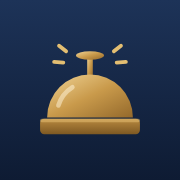
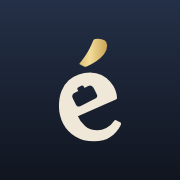
Merk: attaché, met een é uit Young Serif waarvan het oog een gekanteld koffertje is
Titel, zijbalk, manifest en meldingen heten nu attaché. Het woordmerk staat in kleine
letters in Young Serif met een messing accent. Nieuwe favicon (zonder hengsel, voor kleine
maten), Apple-icoon en een Dock-icoon in het macOS-raster, dat ook als favicon.ico wordt
geserveerd. De vectorbestanden staan in ontwerp/.

Claude-Session: https://claude.ai/code/session_01M89mTdszUr3yjNnbdNbyR6

diff --git a/mailagent/static/app.html b/mailagent/static/app.html
@@ -3,14 +3,14 @@
 <head>
 <meta charset="utf-8">
 <meta name="viewport" content="width=device-width, initial-scale=1">
-<title>Concierge</title>
-<meta name="application-name" content="Concierge">
-<meta name="apple-mobile-web-app-title" content="Concierge">
+<title>attaché</title>
+<meta name="application-name" content="attaché">
+<meta name="apple-mobile-web-app-title" content="attaché">
 <meta name="description" content="Je mail, taken en agenda, voorbereid door Claude. Versturen doe je zelf.">
 <link rel="icon" href="/favicon.svg" type="image/svg+xml">
 <link rel="apple-touch-icon" href="/apple-touch-icon.png">
 <link rel="manifest" href="/manifest.webmanifest">
-<link rel="stylesheet" href="https://fonts.googleapis.com/css2?family=Inter:wght@400;500;600;700&display=swap">
+<link rel="stylesheet" href="https://fonts.googleapis.com/css2?family=Inter:wght@400;500;600;700&family=Young+Serif&display=swap">
 <style>
 :root{
   --bg:#f4f4f2;--vlak:#ffffff;--vlak2:#fafaf8;--tekst:#1c1c1e;--zacht:#6e6e73;--lijn:#e5e5e2;
@@ -606,11 +606,13 @@ textarea.groei{resize:none;overflow:hidden;min-height:0;line-height:1.45;font:in
 .overlay dl{display:grid;grid-template-columns:auto 1fr;gap:8px 16px;margin:0}
 .overlay dt{text-align:right}
 .overlay dd{margin:0;color:var(--zacht)}
-/* merk: Concierge, een receptiebel in messing op diepblauw */
-.logo .blok.merk{background:none;width:30px;height:30px;border-radius:8px;overflow:hidden;box-shadow:0 1px 2px rgba(14,27,51,.25)}
+/* merk: attaché. De é uit Young Serif; het oog is een gekanteld koffertje, het accent messing. */
+.logo .blok.merk{background:none;width:30px;height:30px;border-radius:8px;overflow:hidden;box-shadow:0 1px 2px rgba(14,20,30,.3)}
 .logo .blok.merk svg.merkteken{width:30px;height:30px;stroke:none;fill:initial;stroke-width:0}
 @media (prefers-color-scheme:dark){:root:not([data-theme="light"]) .logo .blok.merk{box-shadow:0 0 0 1px rgba(255,255,255,.1)}}
-.woordmerk{font-family:ui-serif,"New York","Iowan Old Style",Georgia,serif;font-weight:600;font-size:19px;letter-spacing:.005em;color:var(--tekst)}
+.woordmerk{font-family:"Young Serif",ui-serif,Georgia,serif;font-weight:400;font-size:21px;letter-spacing:-.005em;color:var(--tekst);line-height:1}
+.woordmerk-e{color:#b5852f}
+@media (prefers-color-scheme:dark){:root:not([data-theme="light"]) .woordmerk-e{color:#ddb769}}
 /* afgehandeld */
 .td-schakel button{white-space:nowrap}
 .rij.afg .afg-chip{flex:none}
@@ -650,23 +652,11 @@ textarea.groei{resize:none;overflow:hidden;min-height:0;line-height:1.45;font:in
 <body>
 <div class="app" id="app">
   <aside class="zij">
-    <div class="logo"><span class="blok merk"><svg class="merkteken" aria-hidden="true" viewBox="0 0 512 512">
-  <defs>
-    <linearGradient id="c-bg" x1="0" y1="0" x2="0" y2="1"><stop offset="0" stop-color="#1d3358"/><stop offset="1" stop-color="#0e1b33"/></linearGradient>
-    <linearGradient id="c-messing" x1="0" y1="0" x2="1" y2="1"><stop offset="0" stop-color="#f0d496"/><stop offset=".5" stop-color="#c99a4b"/><stop offset="1" stop-color="#94692b"/></linearGradient>
-    <linearGradient id="c-voet" x1="0" y1="0" x2="0" y2="1"><stop offset="0" stop-color="#b98a40"/><stop offset="1" stop-color="#7d5822"/></linearGradient>
-  </defs>
-  <rect width="512" height="512" rx="112" fill="url(#c-bg)"/>
-  <g stroke="#e3be72" stroke-width="11" stroke-linecap="round" fill="none">
-    <path d="M168 130l20 16M154 176l26 2M344 130l-20 16M358 176l-26 2"/>
-  </g>
-  <rect x="248" y="160" width="16" height="64" rx="6" fill="url(#c-messing)"/>
-  <ellipse cx="256" cy="158" rx="40" ry="12" fill="url(#c-messing)"/>
-  <path d="M134 334a122 122 0 0 1 244 0z" fill="url(#c-messing)"/>
-  <path d="M166 300A94 94 0 0 1 206 248" stroke="#fff6dc" stroke-opacity=".5" stroke-width="13" stroke-linecap="round" fill="none"/>
-  <rect x="114" y="338" width="284" height="44" rx="12" fill="url(#c-voet)"/>
-  <rect x="114" y="338" width="284" height="10" rx="5" fill="#e3be72" fill-opacity=".55"/>
-</svg></span><span class="navtekst woordmerk">Concierge</span>
+    <div class="logo"><span class="blok merk"><svg class="merkteken" aria-hidden="true" viewBox="0 0 512 512"><defs>
+<linearGradient id="ambg" x1="0" y1="0" x2="0" y2="1"><stop offset="0" stop-color="#243047"/><stop offset="1" stop-color="#10151f"/></linearGradient>
+<linearGradient id="amms" gradientUnits="userSpaceOnUse" x1="180" y1="0" x2="330" y2="0"><stop offset="0" stop-color="#b98a35"/><stop offset=".5" stop-color="#f3dd9a"/><stop offset="1" stop-color="#b48434"/></linearGradient>
+<mask id="amm" maskUnits="userSpaceOnUse" x="0" y="0" width="512" height="512"><rect width="512" height="512" fill="#fff"/>
+<path transform="translate(242.17 268.50) rotate(-26.56) scale(.5)" d="M-72.92 29.18V-10.49Q-72.92 -35.29 -48.12 -35.29H34.54Q59.33 -35.29 59.33 -10.49V29.18Q59.33 47.37 41.15 47.37H-54.73Q-72.92 47.37 -72.92 29.18ZM-26.63 -32.29V-43.77Q-26.63 -54.13 -16.26 -54.13H2.68Q13.05 -54.13 13.05 -43.77V-32.29Z" fill="#000"/></mask></defs><rect width="512" height="512" rx="112" fill="url(#ambg)"/><g transform="translate(256 256) scale(1.0) translate(-256 -256)"><path d="M221.6 330.6 Q227.9 346.2 241.9 358.5 Q255.8 370.8 277.4 370.8 Q289.3 370.8 302.3 364.1 Q315.3 357.4 325.0 343.2 Q326.1 341.4 328.0 341.4 Q329.8 341.4 331.9 342.5 Q333.9 343.6 342.9 348.8 Q344.3 349.9 344.3 351.8 Q344.3 354.4 342.1 358.1 Q331.7 377.4 313.8 389.7 Q296.0 402.0 267.3 402.0 Q236.5 402.0 214.2 388.2 Q191.8 374.5 179.7 351.8 Q167.7 329.1 167.7 302.3 Q167.7 276.6 175.3 258.2 Q182.9 239.8 195.6 228.5 Q208.2 217.1 224.0 211.7 Q239.8 206.3 256.2 206.3 Q274.8 206.3 288.9 213.6 Q303.1 220.8 312.9 232.0 Q322.8 243.2 327.8 255.6 Q332.8 268.1 332.8 278.9 Q332.8 281.9 329.5 283.3 Z" fill="#efe8d8" mask="url(#amm)"/><path d="M225.3 182.2 Q237.2 166.9 244.1 156.5 Q251.0 146.1 255.6 136.6 Q260.3 127.1 265.1 115.2 Q266.6 111.9 270.9 110.9 Q275.2 110.0 278.9 110.0 Q289.7 110.0 297.3 114.6 Q304.9 119.3 304.9 129.0 Q304.9 143.1 295.8 154.5 Q286.7 165.8 273.9 174.2 Q261.0 182.5 249.5 187.7 Q248.0 188.5 246.3 189.2 Q244.7 190.0 242.8 190.0 Q241.3 190.0 239.1 188.9 Z" fill="url(#amms)"/></g></svg></span><span class="navtekst woordmerk" aria-label="attaché">attach<span class="woordmerk-e">é</span></span>
       <button class="ikoon inklap" id="inklappen" title="Zijbalk inklappen ( [ )" aria-label="Zijbalk in- of uitklappen"><span data-ikoon="paneel"></span></button></div>
     <div id="nav" style="display:contents"></div>
     <div class="onder">

diff --git a/mailagent/web.py b/mailagent/web.py
@@ -38,7 +38,8 @@ APP_HTML = Path(__file__).with_name("static") / "app.html"
 # vaste bestanden naast de app: logo, Dock-icoon (Safari > File > Add to Dock) en manifest
 BESTANDEN = {
     "/favicon.svg": ("favicon.svg", "image/svg+xml"),
-    "/favicon.ico": ("icon-192.png", "image/png"),
+    "/favicon.ico": ("dock-icoon.png", "image/png"),          # sommige Safari-versies nemen dit voor het Dock
+    "/dock-icoon.png": ("dock-icoon.png", "image/png"),
     "/apple-touch-icon.png": ("apple-touch-icon.png", "image/png"),
     "/apple-touch-icon-precomposed.png": ("apple-touch-icon.png", "image/png"),
     "/icon-192.png": ("icon-192.png", "image/png"),

diff --git a/mailagent/melding.py b/mailagent/melding.py
@@ -6,7 +6,7 @@ import subprocess
 
 
 def meld(titel: str, tekst: str) -> None:
-    script = 'on run argv\ndisplay notification (item 2 of argv) with title (item 1 of argv) subtitle "Concierge" sound name "Glass"\nend run'
+    script = 'on run argv\ndisplay notification (item 2 of argv) with title (item 1 of argv) subtitle "attaché" sound name "Glass"\nend run'
     try:
         subprocess.run(["osascript", "-e", script, titel[:120], tekst[:240]], check=False, timeout=20,
                        capture_output=True)

diff --git a/README.md b/README.md
@@ -1,8 +1,8 @@
-# Concierge
+# attaché
 
-<img src="mailagent/static/apple-touch-icon.png" width="72" alt="Concierge: een receptiebel in messing op diepblauw">
+<img src="mailagent/static/dock-icoon.png" width="96" alt="attaché: een é met een koffertje als oog en een messing accent">
 
-Concierge bereidt je mail, taken en agenda voor; versturen doe je zelf. De naam en de receptiebel komen uit de hotellerie: een conciërge regelt veel voor je, maar vraagt eerst wat je wilt. In de code heet het pakket nog `mailagent`, zodat paden, achtergrondtaken en commando's blijven werken.
+attaché bereidt je mail, taken en agenda voor; versturen doe je zelf. Een attaché is de assistent van een diplomaat, een attachékoffer draagt je papieren, en bijlagen in je mail heten in het Engels *attachments*. Het logo is de é uit Young Serif (SIL Open Font License, via Google Fonts): het oog van de letter is een gekanteld koffertje met een klein hengsel, het accent is messing. In de code heet het pakket nog `mailagent`, zodat paden, achtergrondtaken en commando's blijven werken. De vectorbestanden van het logo staan in `ontwerp/`: het merkteken, een vierkante versie, de Dock-versie in het macOS-raster en een kleine versie zonder hengsel voor 16 en 32 pixels.
 
 Eerste onderdeel van een persoonlijk agentsysteem, gebaseerd op het idee van een chief of staff met directeuren per domein. Dit onderdeel regelt e-mail voor drie projecten: **onderwijs**, **onderzoek** en **ISTTE-bestuurswerk**, plus een bak **overig**. Het draait op je eigen MacBook.
 
@@ -59,7 +59,7 @@ Na elke run staat er een overzicht per project in `data/overzicht.md`.
 
 **Zoeken.** ⌘K (of `/`) zet de cursor in het zoekveld bovenin. De app zoekt in alle mail die hij verwerkte (afzender, onderwerp, tekst, samenvatting en je eigen antwoord), in je taken en in Wacht op antwoord. Alle woorden moeten voorkomen. Met de pijltjes en Enter open je een treffer op de plek waar hij hoort: Te doen, Opruimen, Planning, of het detailpaneel als hij al is afgehandeld. Mail die de app nooit ophaalde (ouder dan `terugkijken_dagen` bij de eerste ronde) zoek je in Mail zelf.
 
-**Icoon in je Dock.** De app heeft een eigen icoon (de bel). Een Dock-app die je eerder met Safari > File > Add to Dock maakte, houdt het oude plaatje. Gooi die weg (hij staat in de map Programma's in je thuismap) en zet de pagina opnieuw in het Dock; de naam staat dan al op Concierge.
+**Icoon in je Dock.** Een Dock-app die je eerder met Safari > File > Add to Dock maakte, houdt het oude plaatje. Gooi die weg (hij staat in de map Programma's in je thuismap) en zet de pagina opnieuw in het Dock; de naam staat dan al op attaché. Welk plaatje Safari kiest, verschilt per versie. Neemt hij het verkeerde, klik dan in het venster van Add to Dock op het icoon en kies `mailagent/static/dock-icoon.png`. Later wijzigen kan in de instellingen van de web-app.
 
 **Opbergen in een map.** Naast archiveren kun je een mail in een eigen map zetten, bijvoorbeeld ENTER÷IFITT: met de mapknop of toets `V`. De kiezer zet bovenaan waar je mail van deze afzender eerder opborg, mappen die je vaak voor dit project gebruikt, en mappen waarvan de naam in het onderwerp staat. Typ om te zoeken, `↵` om op te bergen. De mappenlijst wordt eenmaal per sessie uit Apple Mail gehaald; "Vernieuwen" haalt hem opnieuw op.
 
